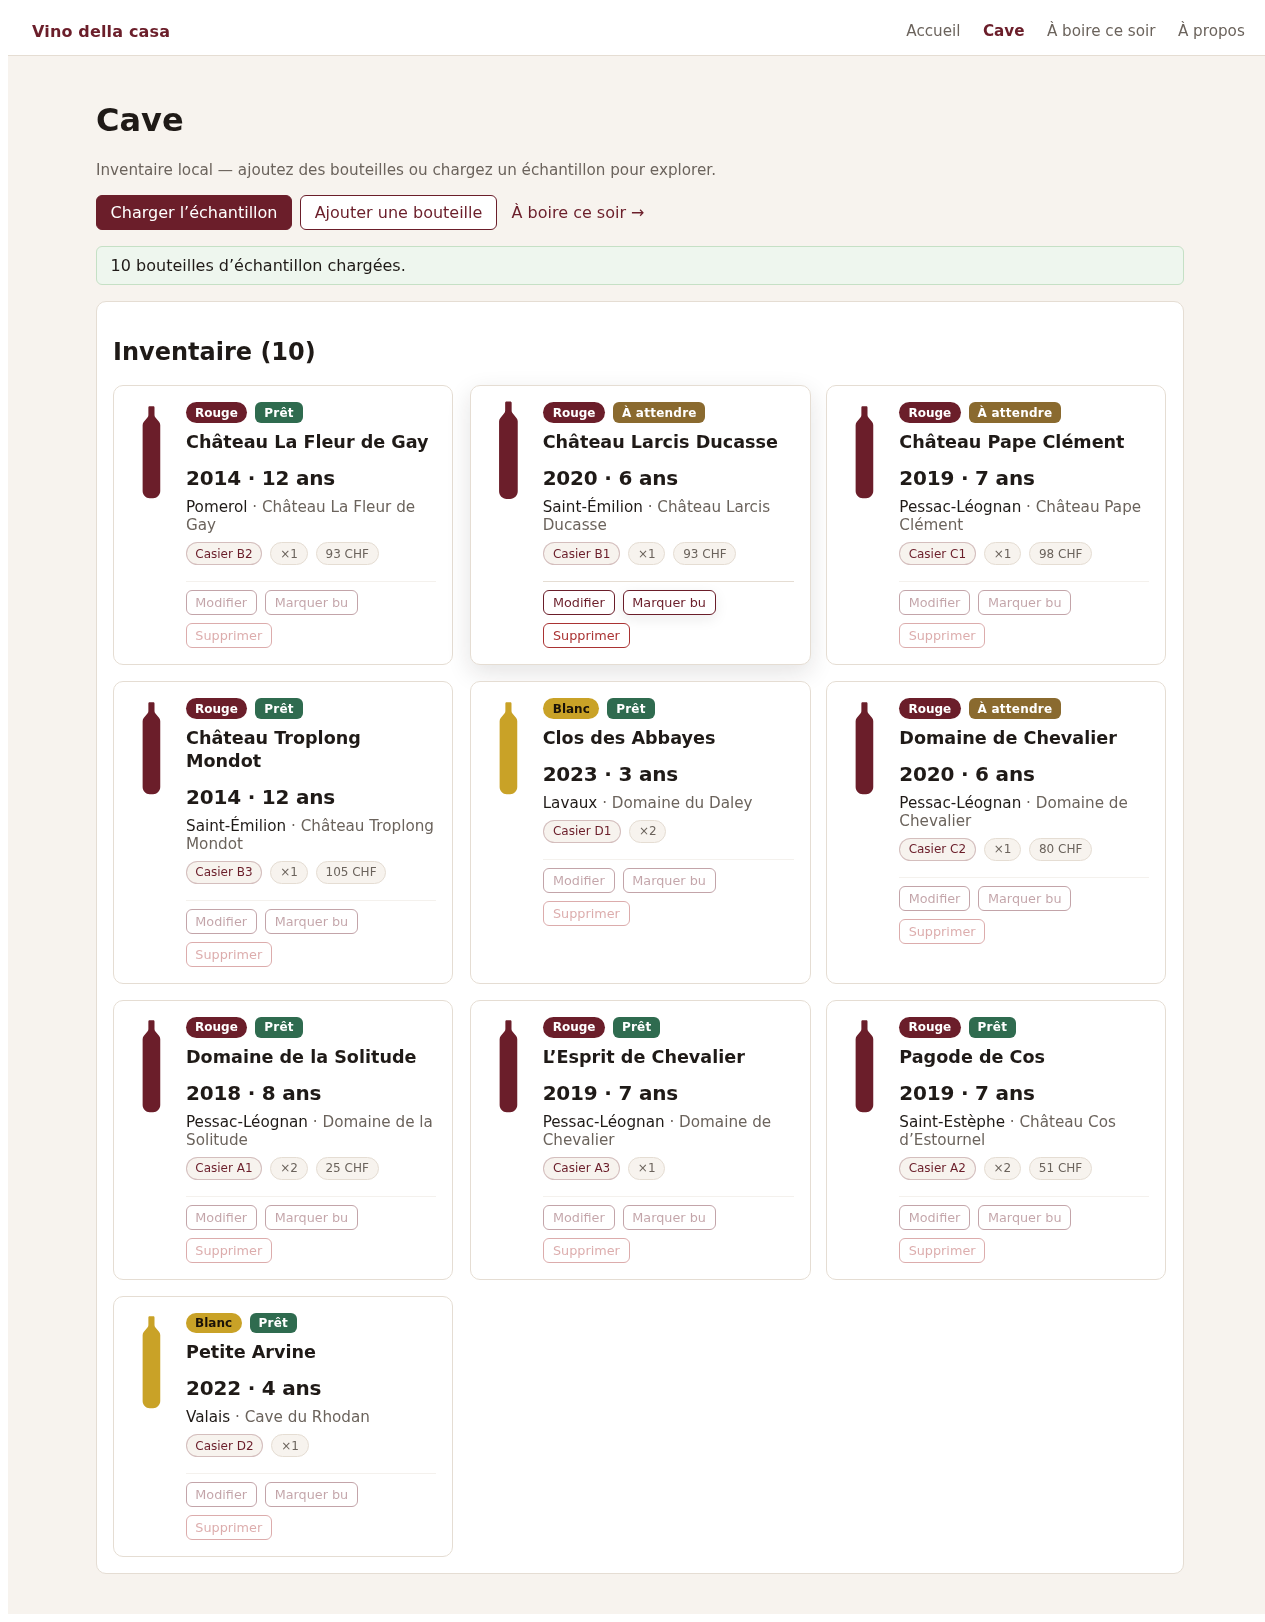
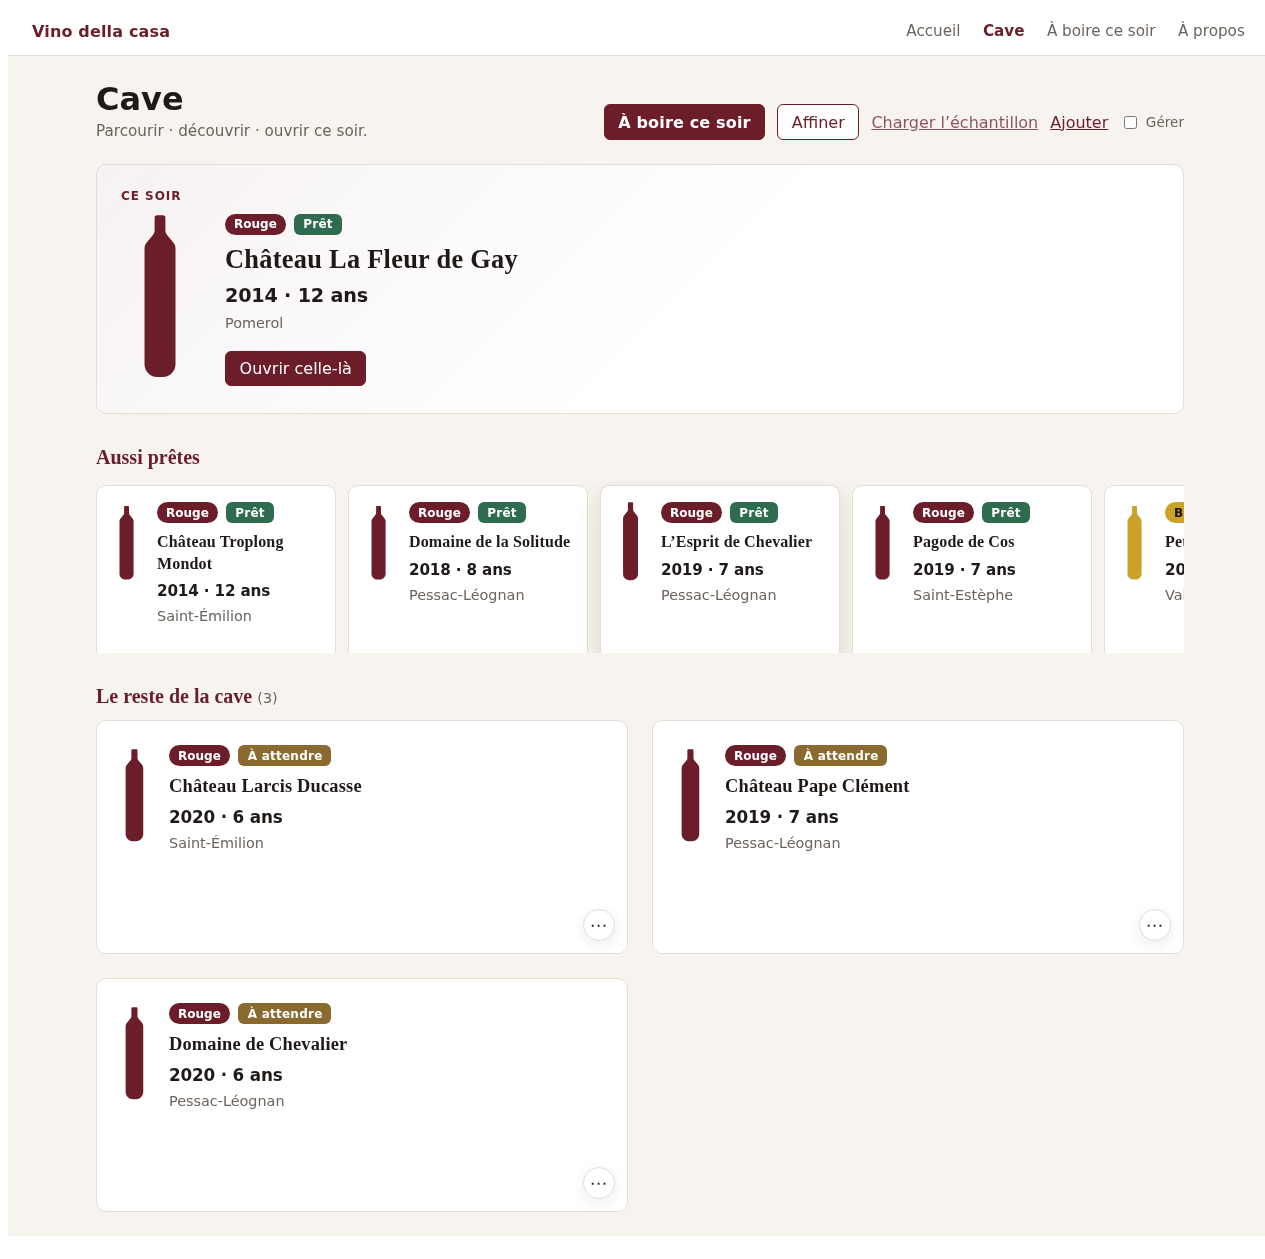
docs: Cave browse B screenshots + MCP local connect README (#54)

diff --git a/README.md b/README.md
@@ -49,7 +49,28 @@ Open the URL printed by `dotnet run`. On GitHub Pages, use the demo link above (
 - `Docs/SPEC.md` — product & engineering notes
 - `Docs/domain/` — maturity rules, sample seeds, MCP tool contract
 
-Optional local MCP (stdio, read-only tools over domain logic): see `Docs/domain/MCP-TOOLS-CONTRACT.md` and run `dotnet run --project src/VinoDellaCasa.Mcp`.
+## Local MCP server (Cursor / agents)
+
+Read-only stdio tools over domain logic (`evaluate_maturity`, `rank_drink_tonight`, `list_seed_bottles`, …). Contract: `Docs/domain/MCP-TOOLS-CONTRACT.md`.
+
+```bash
+dotnet run --project src/VinoDellaCasa.Mcp
+```
+
+Example Cursor MCP config (no secrets — replace the absolute path):
+
+```json
+{
+  "mcpServers": {
+    "vino-della-casa": {
+      "command": "dotnet",
+      "args": ["run", "--project", "/ABS/PATH/TO/vino-della-casa/src/VinoDellaCasa.Mcp"]
+    }
+  }
+}
+```
+
+Smoke: `dotnet test tests/VinoDellaCasa.Mcp.Tests`. Stdio only; no network writes.
 
 ## Dev hygiene
 
